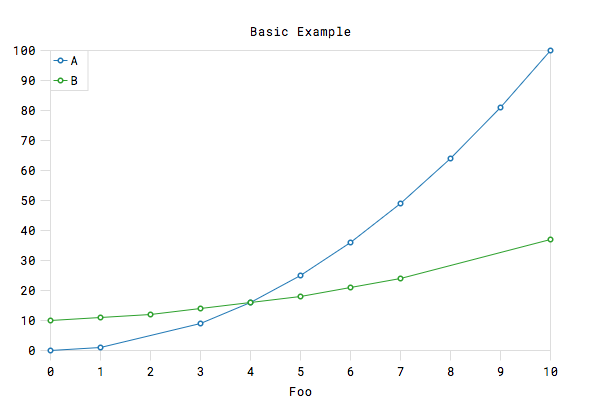
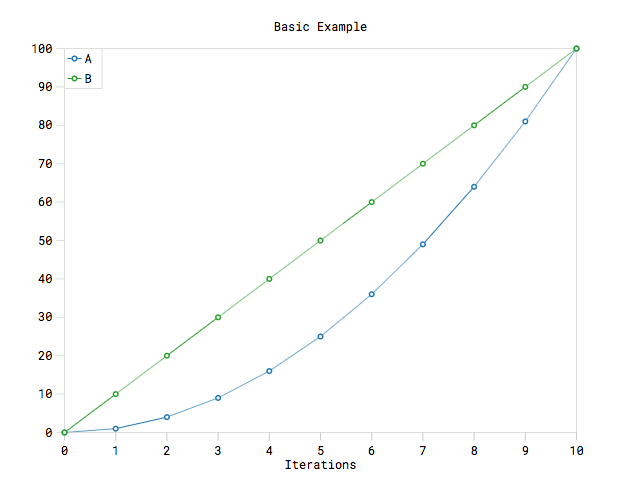
Update README, fix onHover for all graphs

diff --git a/src/TimeXAggregateYGraph.js b/src/TimeXAggregateYGraph.js
@@ -1,6 +1,7 @@
 import React, { Component } from 'react'
 import PropTypes from 'prop-types'
 import jstz from 'jstz'
+import tz from 'timezone/loaded'
 import { max, flatten } from 'lodash'
 
 import TimeXAxis from './TimeXAxis'
@@ -10,15 +11,18 @@ import computeTimeLayout from './util/computeTimeLayout'
 import computeAggregate from './util/computeAggregate'
 import ceilingToPeriod from './util/ceilingToPeriod'
 import timePeriods from './util/timePeriods'
+import timeFormatForPeriod from './util/timeFormatForPeriod'
 
 class TimeXAggregateYGraph extends Component {
   render () {
-    const { localOrUTC, width, height, title, xLabel, data, period, divisions, palette } = this.props
+    const { localOrUTC, width, height, title, xLabel,
+      data, period, divisions, palette, onHover } = this.props
+    const timezone = localOrUTC === 'local' ? jstz.determine().name() : 'UTC'
+    const format = timeFormatForPeriod(period)
     const dataXMax = max(flatten(data.map(dataset => dataset.values.map(v => v.x))))
     const xMax = ceilingToPeriod(dataXMax, period, divisions)
     const xMin = xMax - timePeriods[period]
     const dx = (xMax - xMin) / divisions
-
     const aggregateData = data.map(d => {
       return {
         ...d,
@@ -26,12 +30,16 @@ class TimeXAggregateYGraph extends Component {
       }
     })
 
-    const timezone = localOrUTC === 'local' ? jstz.determine().name() : 'UTC'
+    const xInfoFormatter = (timestamp) => {
+      const from = tz(new Date(timestamp - dx / 2), format, 'en_GB', timezone)
+      const to = tz(new Date(timestamp + dx / 2), format, 'en_GB', timezone)
+      return `${from}-${to}`
+    }
     return <Graph
-      {...{ width, height, data: aggregateData, title, xLabel, palette }}
+      {...{ width, height, data: aggregateData, title, xLabel, palette, onHover }}
       computeXLayout={() => computeTimeLayout(xMax, period, localOrUTC)}
       renderXAxis={(props) => <TimeXAxis {...props} timezone={timezone} />}
-      renderValues={(props) => <ContinuousBarValues {...props} dx={dx} />}
+      renderValues={(props) => <ContinuousBarValues {...props} {... { dx, xInfoFormatter }} />}
     >
       <text style={{ textAnchor: 'end' }} x={width - 64} y={30} >[{timezone}]</text>
     </Graph>
@@ -47,7 +55,8 @@ TimeXAggregateYGraph.propTypes = {
   palette: PropTypes.array,
   period: PropTypes.oneOf(Object.keys(timePeriods)),
   divisions: PropTypes.number.isRequired,
-  localOrUTC: PropTypes.oneOf(['local', 'utc'])
+  localOrUTC: PropTypes.oneOf(['local', 'utc']),
+  onHover: PropTypes.func
 }
 
 TimeXAxis.defaultProps = {

diff --git a/src/TimeXScalarYGraph.js b/src/TimeXScalarYGraph.js
@@ -13,13 +13,13 @@ import timeFormatForPeriod from './util/timeFormatForPeriod'
 
 class TimeXScalarYGraph extends Component {
   render () {
-    const { width, height, data, period, title, xLabel, localOrUTC, palette } = this.props
+    const { width, height, data, period, title, xLabel, localOrUTC, palette, onHover } = this.props
     const dataXMax = max(flatten(data.map(dataset => dataset.values.map(v => v.x))))
     const timezone = localOrUTC === 'local' ? jstz.determine().name() : 'UTC'
     const format = timeFormatForPeriod(period)
     const xInfoFormatter = (timestamp) => `${tz(new Date(timestamp), format, 'en_GB', timezone)}`
     return <Graph
-      {...{ width, height, data, title, xLabel, palette }}
+      {...{ width, height, data, title, xLabel, palette, onHover }}
       computeXLayout={() => computeTimeLayout(dataXMax, period, localOrUTC)}
       renderXAxis={(props) => <TimeXAxis {...props} timezone={timezone} />}
       renderValues={(props) => <ScalarValues {...props} {...{ xInfoFormatter }} />}
@@ -36,7 +36,8 @@ TimeXScalarYGraph.propTypes = {
   height: PropTypes.number.isRequired,
   data: PropTypes.array.isRequired,
   period: PropTypes.oneOf(Object.keys(timePeriods)),
-  localOrUTC: PropTypes.oneOf(['local', 'utc'])
+  localOrUTC: PropTypes.oneOf(['local', 'utc']),
+  onHover: PropTypes.func
 }
 
 TimeXAxis.defaultProps = {

diff --git a/src/Graph.js b/src/Graph.js
@@ -10,7 +10,7 @@ import colors10 from './util/colors10'
 class Graph extends Component {
   render () {
     const { width, height, data, title, xLabel, computeXLayout,
-      renderXAxis, renderValues, palette, xInfoFormatter } = this.props
+      renderXAxis, renderValues, palette, xInfoFormatter, onHover } = this.props
     const yMin = min(flatten(data.map(d => d.values.map(d => d.y))))
     const yMax = max(flatten(data.map(d => d.values.map(d => d.y))))
     const contentsWidth = width - 128
@@ -62,7 +62,10 @@ class Graph extends Component {
                 fill: `${palette[i % palette.length]}11`,
                 values: dataset.values,
                 layout: { x: xLayout, y: yLayout },
-                xInfoFormatter
+                xInfoFormatter,
+                onHover: onHover
+                  ? hoverInfo => onHover({ ...hoverInfo, yIndex: i })
+                  : null
               }))}
             </g>
             <g transform='translate(64, 48)'>
@@ -85,7 +88,9 @@ Graph.propTypes = {
   computeXLayout: PropTypes.func.isRequired,
   renderXAxis: PropTypes.func.isRequired,
   renderValues: PropTypes.func.isRequired,
-  palette: PropTypes.array.isRequired
+  palette: PropTypes.array.isRequired,
+  xInfoFormatter: PropTypes.func.isRequired,
+  onHover: PropTypes.func
 }
 
 Graph.defaultProps = {

diff --git a/test/functional/scalar-x-scalar-y-graph.test.js b/test/functional/scalar-x-scalar-y-graph.test.js
@@ -13,7 +13,7 @@ const data1 = [
   },
   {
     label: 'B',
-    values: [0, 1, 2, 3, 4, 5, 6, 7, 8, 9, 10].map(b => ({ x: b, y: b * 10 }))
+    values: [1, 2, 3, 4, 7, 8, 9].map(b => ({ x: b, y: b * 10 }))
   }
 ]
 const xValues2 = [0, 1, 2, 3, 4, 5, 6, 7, 8, 9, 12]
@@ -79,6 +79,7 @@ export default (props) => <div>
       height={350}
       title='Colors Example'
       xLabel='X'
+      onHover={hoverInfo => console.log('hover info:', hoverInfo)}
     />
   </GraphContainer>
   <GraphContainer width={width} height={height} >
@@ -88,6 +89,7 @@ export default (props) => <div>
       height={height}
       title='Limits Example'
       xLabel='iterations'
+      onHover={hoverInfo => console.log('hover info:', hoverInfo)}
     />
   </GraphContainer>
   <GraphContainer width={width} height={height} >
@@ -98,6 +100,7 @@ export default (props) => <div>
       title='Large Dataset Example'
       xLabel='Foo'
       palette={colors4}
+      onHover={hoverInfo => console.log('hover info:', hoverInfo)}
     />
   </GraphContainer>
   <GraphContainer width={width} height={height} >
@@ -108,6 +111,7 @@ export default (props) => <div>
       title='Empty Example'
       xLabel='Empty'
       colors={colors4}
+      onHover={hoverInfo => console.log('hover info:', hoverInfo)}
     />
   </GraphContainer>
 </div>

diff --git a/src/ScalarXScalarYGraph.js b/src/ScalarXScalarYGraph.js
@@ -10,11 +10,11 @@ import timePeriods from './util/timePeriods'
 
 class ScalarXScalarYGraph extends Component {
   render () {
-    const { width, height, data, title, xLabel, palette } = this.props
+    const { width, height, data, title, xLabel, palette, onHover } = this.props
     const dataXMax = max(flatten(data.map(dataset => dataset.values.map(v => v.x))))
     const dataXMin = min(flatten(data.map(dataset => dataset.values.map(v => v.x))))
     return <Graph
-      {...{ width, height, data, title, xLabel, palette }}
+      {...{ width, height, data, title, xLabel, palette, onHover }}
       computeXLayout={contentsWidth => computeScalarLayout('x', [dataXMin, dataXMax], contentsWidth)}
       renderXAxis={(props) => <ScalarXAxis {...props} />}
       renderValues={(props) => <ScalarValues {...props} />}
@@ -29,7 +29,8 @@ ScalarXScalarYGraph.propTypes = {
   height: PropTypes.number.isRequired,
   data: PropTypes.array.isRequired,
   period: PropTypes.oneOf(Object.keys(timePeriods)),
-  localOrUTC: PropTypes.oneOf(['local', 'utc'])
+  localOrUTC: PropTypes.oneOf(['local', 'utc']),
+  onHover: PropTypes.func
 }
 
 export default ScalarXScalarYGraph

diff --git a/test/functional/time-x-aggregate-y-graph.test.js b/test/functional/time-x-aggregate-y-graph.test.js
@@ -74,6 +74,7 @@ export default (props) => <div>
       divisions={12}
       localOrUTC='utc'
       palette={['#2ca02c', '#d62728']}
+      onHover={hoverInfo => console.log('hover info:', hoverInfo)}
     />
   </GraphContainer>
   <GraphContainer width={width} height={height} >
@@ -86,6 +87,7 @@ export default (props) => <div>
       period='1h'
       divisions={6}
       localOrUTC='utc'
+      onHover={hoverInfo => console.log('hover info:', hoverInfo)}
     />
   </GraphContainer>
   <GraphContainer width={width} height={height} >
@@ -98,6 +100,7 @@ export default (props) => <div>
       period='1h'
       divisions={6}
       localOrUTC='utc'
+      onHover={hoverInfo => console.log('hover info:', hoverInfo)}
     />
   </GraphContainer>
   <GraphContainer width={width} height={height} >
@@ -110,6 +113,7 @@ export default (props) => <div>
       period='1h'
       divisions={6}
       localOrUTC='utc'
+      onHover={hoverInfo => console.log('hover info:', hoverInfo)}
     />
   </GraphContainer>
 </div>

diff --git a/test/functional/time-x-scalar-y-graph.test.js b/test/functional/time-x-scalar-y-graph.test.js
@@ -42,6 +42,7 @@ export default (props) => <div>
       xLabel='Time'
       period='24h'
       localOrUTC='utc'
+      onHover={hoverInfo => console.log('hover info:', hoverInfo)}
     />
   </GraphContainer>
   <GraphContainer width={width} height={height} >
@@ -53,6 +54,7 @@ export default (props) => <div>
       xLabel='Time'
       period='24h'
       localOrUTC='local'
+      onHover={hoverInfo => console.log('hover info:', hoverInfo)}
     />
   </GraphContainer>
   <GraphContainer width={width} height={height} >
@@ -64,6 +66,7 @@ export default (props) => <div>
       xLabel='Time'
       period='6h'
       palette={palette}
+      onHover={hoverInfo => console.log('hover info:', hoverInfo)}
     />
   </GraphContainer>
   <GraphContainer width={width} height={height} >
@@ -75,6 +78,7 @@ export default (props) => <div>
       period='6h'
       xLabel='Time'
       palette={palette}
+      onHover={hoverInfo => console.log('hover info:', hoverInfo)}
     />
   </GraphContainer>
 </div>

diff --git a/src/ContinuousBarValues.js b/src/ContinuousBarValues.js
@@ -30,8 +30,8 @@ class ContinuousBarValues extends Component {
       const xInfo = `${xInfoFormatter(values[hoverIndex].x)}:`
       const yInfo = `${values[hoverIndex].y}`
       const hoverInfo = {
-        xPos: hoverPoint.x,
-        yPos: hoverPoint.y,
+        xPos: Math.round(hoverPoint.x),
+        yPos: Math.round(hoverPoint.y),
         xInfo,
         yInfo,
         color: stroke,
@@ -105,7 +105,9 @@ ContinuousBarValues.propTypes = {
   width: PropTypes.number.isRequired,
   height: PropTypes.number.isRequired,
   layout: PropTypes.object.isRequired,
-  dx: PropTypes.number.isRequired
+  dx: PropTypes.number.isRequired,
+  xInfoFormatter: PropTypes.func.isRequired,
+  onHover: PropTypes.func
 }
 
 export default ContinuousBarValues

diff --git a/test/functional/index.js b/test/functional/index.js
@@ -50,11 +50,11 @@ const HSpace = styled.div`
   width: 10px;
 `
 
-const NavBar = styled.div`
+const Margin = styled.div`
   margin: 20px;
 `
 
-const Nav = () => <NavBar>
+const Nav = () => <Margin>
   <Link to={'/scalar-x-axis'}>{'<ScalarXAxis />'}</Link>
   <HSpace />
   <Link to={'/time-x-axis'}>{'<TimeXAxis />'}</Link>
@@ -70,9 +70,9 @@ const Nav = () => <NavBar>
   <Link to={'/time-x-aggregate-y-graph'}>{'<TimeXAggregateYGraph />'}</Link>
   <HSpace />
   <Link to={'/sparkline'}>{'<Sparkline />'}</Link>
-</NavBar>
+</Margin>
 
-const NotFound = () => 'Not found'
+const NotFound = () => <Margin>Choose one of the example above ↑</Margin>
 
 render(<HashRouter>
   <div>

diff --git a/test/functional/readme.test.js b/test/functional/readme.test.js
@@ -1,0 +1,27 @@
+import React from 'react'
+import { render } from 'react-dom'
+
+import { ScalarXScalarYGraph } from '../..'
+
+const data1 = [
+  {
+    label: 'A',
+    values: [0, 1, 2, 3, 4, 5, 6, 7, 8, 9, 10].map(a => ({ x: a, y: a * a }))
+  },
+  {
+    label: 'B',
+    values: [0, 1, 2, 3, 4, 5, 6, 7, 8, 9, 10].map(b => ({ x: b, y: b * 10 }))
+  }
+]
+
+render(
+  <ScalarXScalarYGraph
+    data={data1}
+    width={640}
+    height={480}
+    title='Basic Example'
+    xLabel='Iterations'
+    onHover={hoverInfo => console.log('hover info:', hoverInfo)}
+  />,
+  document.getElementById('contents')
+)

diff --git a/test/functional/webpack.config.js b/test/functional/webpack.config.js
@@ -12,6 +12,11 @@ module.exports = {
       `webpack-dev-server/client?http://localhost:${port}`,
       'webpack/hot/dev-server',
       path.resolve(__dirname, 'index.js')
+    ],
+    'readme': [
+      `webpack-dev-server/client?http://localhost:${port}`,
+      'webpack/hot/dev-server',
+      path.resolve(__dirname, 'readme.test.js')
     ]
   },
   output: {
@@ -24,7 +29,7 @@ module.exports = {
   devServer: {
     port,
     after: (app, server) => {
-      opn(`http://localhost:${port}`, { app: 'google chrome' })
+      opn(`http://localhost:${port}`)
     }
   },
   resolve: {

diff --git a/test/functional/readme.html b/test/functional/readme.html
@@ -1,0 +1,12 @@
+<!doctype html>
+<html>
+  <head>
+    <meta charset="UTF-8">
+    <meta name="viewport" content="width=device-width, initial-scale=1">
+    <link href="https://fonts.googleapis.com/css?family=Roboto+Mono&display=swap" rel="stylesheet">
+  </head>
+  <body>
+    <div id="contents"></div>
+    <script src="readme.bundle.js"></script>
+  </body>
+</html>
